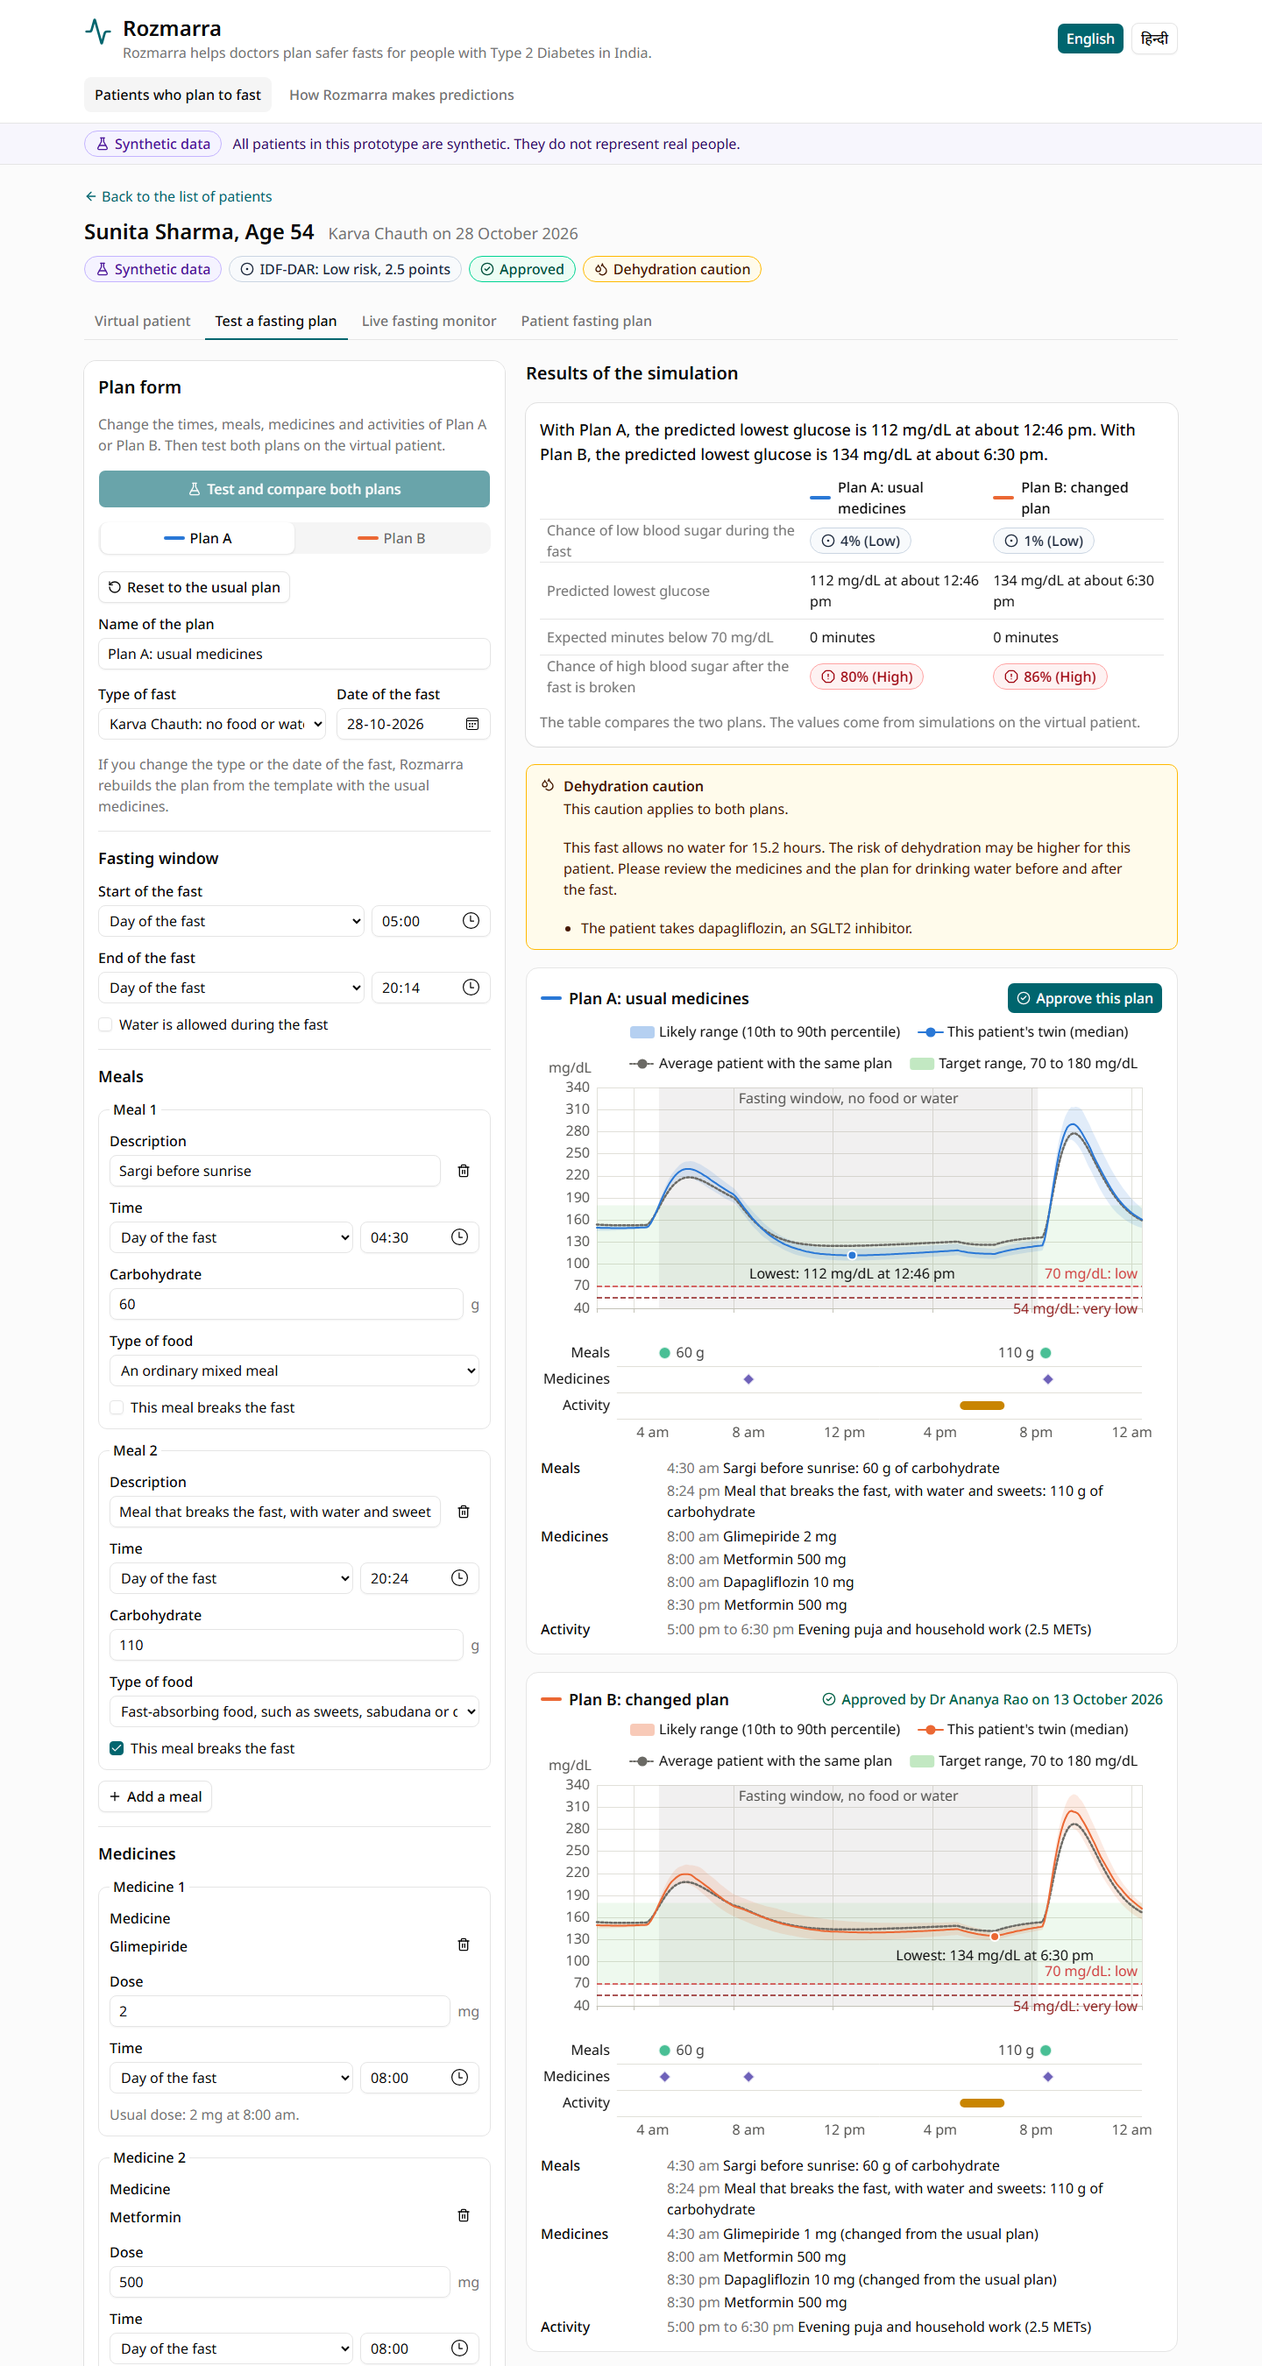
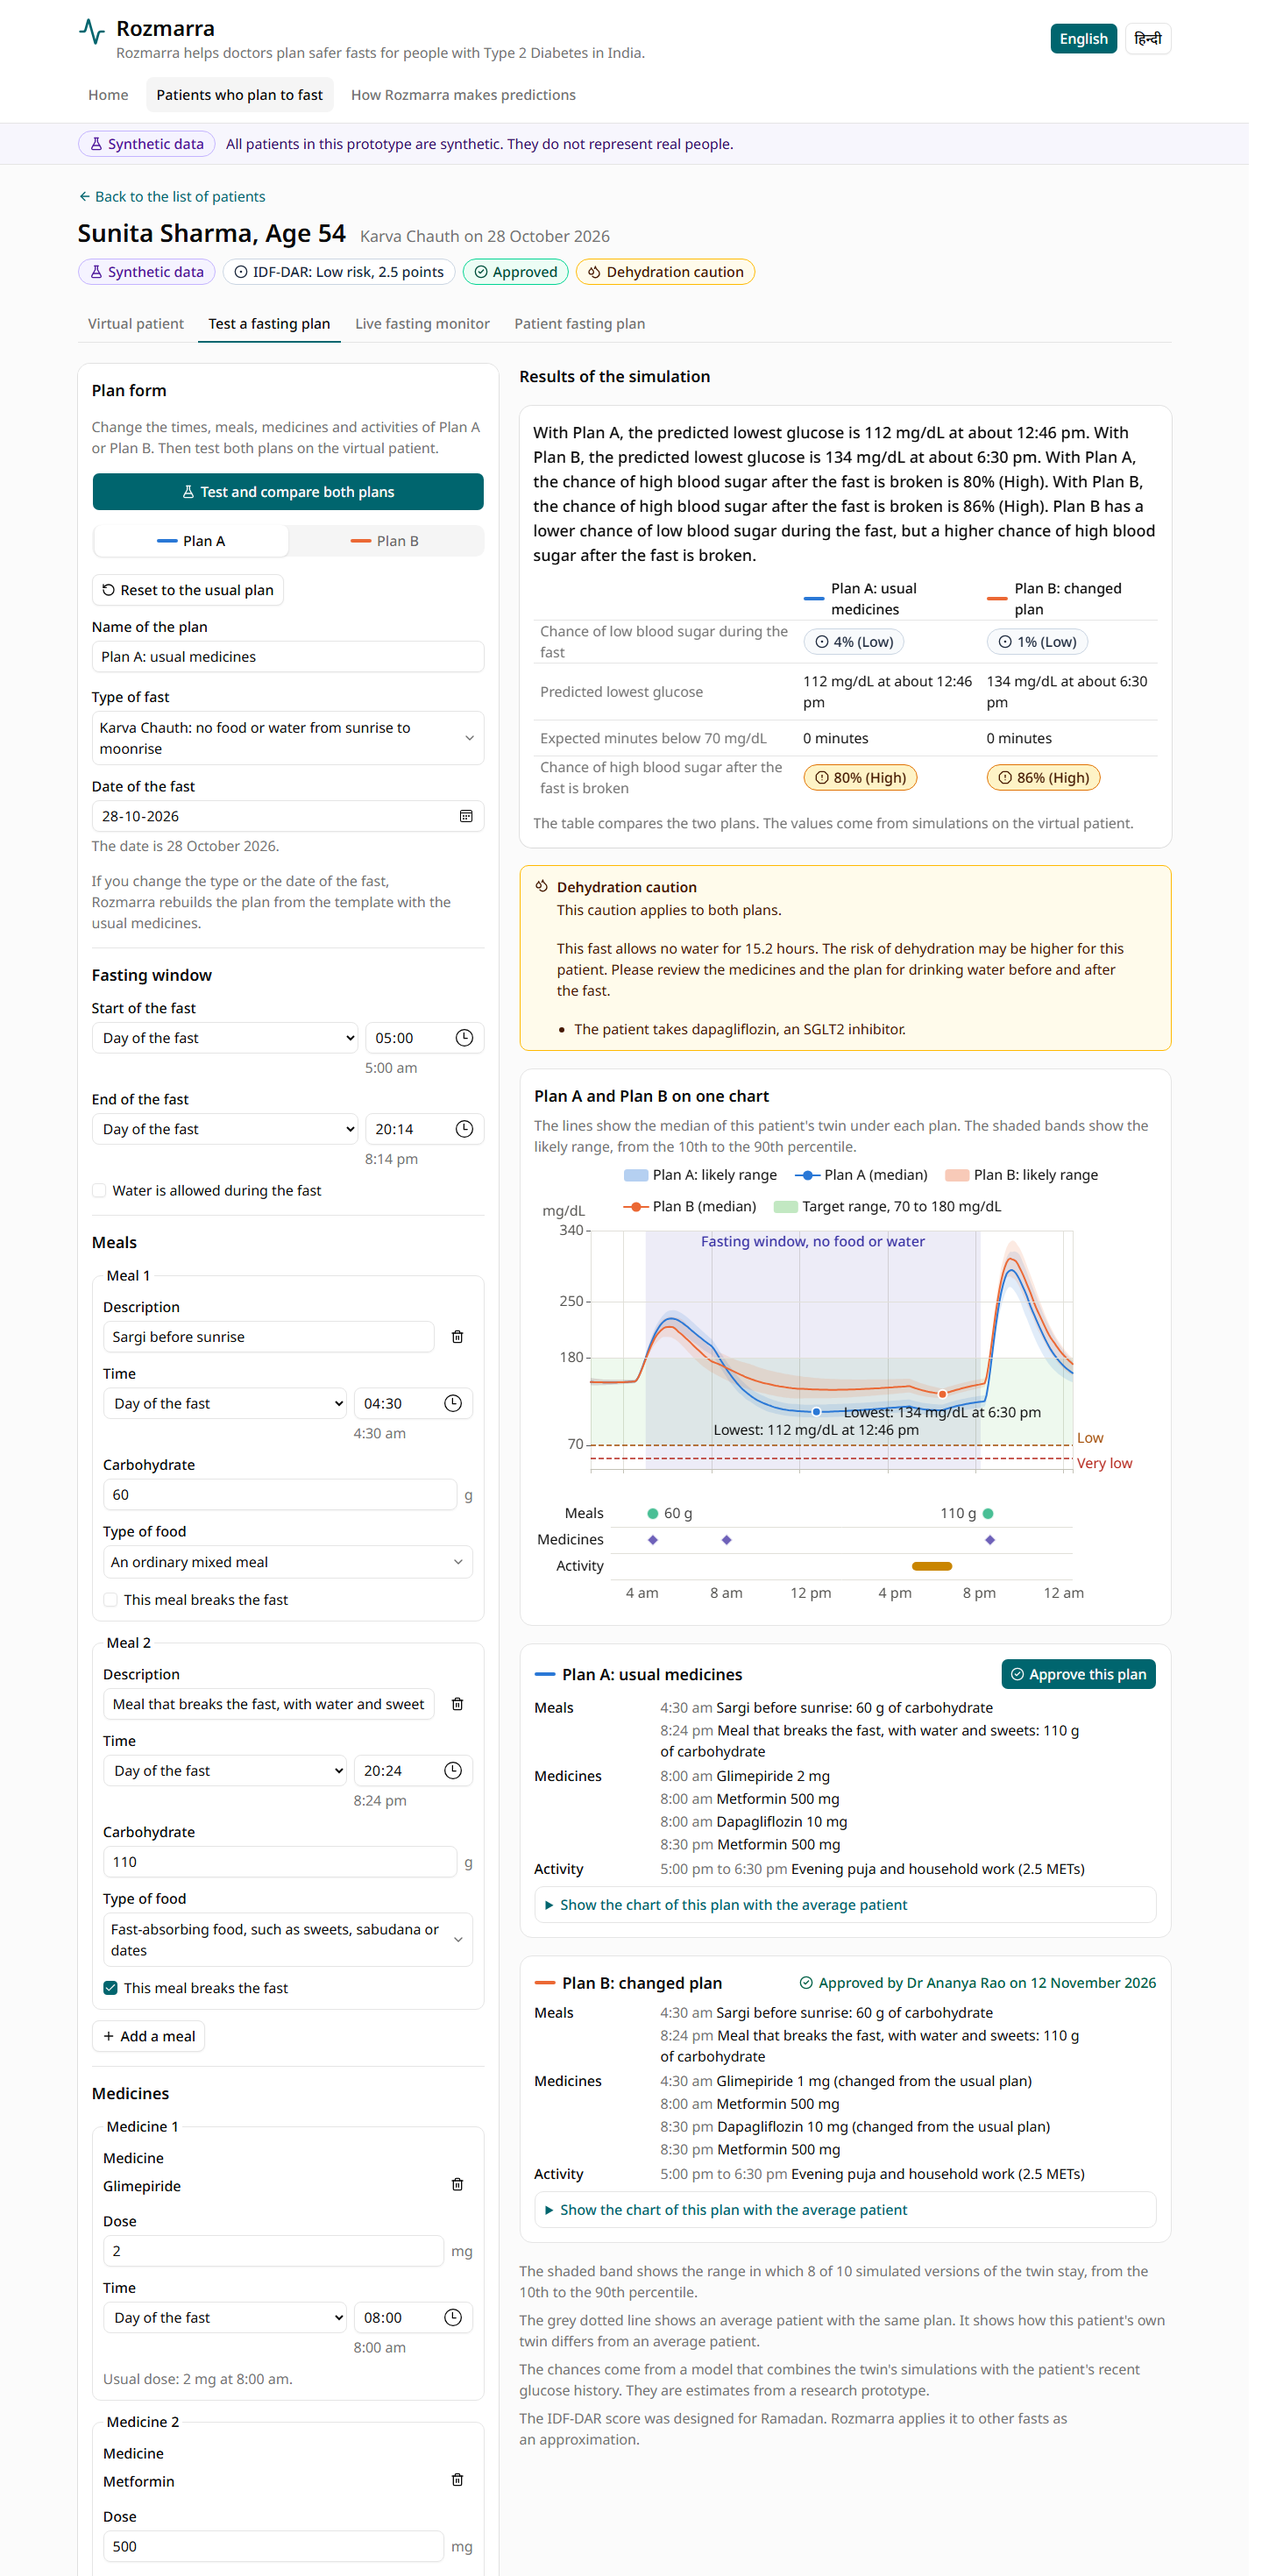
Retake the README screenshots for the new design and add the home page

diff --git a/README.md b/README.md
@@ -83,9 +83,13 @@ The dashboard can switch between English and Hindi.
 
 The screenshots show the synthetic demo patients. They do not represent real people.
 
+**Home page.** The home page explains what Rozmarra does, shows the order in which a doctor uses the screens and lists the fasts that Rozmarra knows.
+
+![The home page shows the title "Test a fasting plan on a virtual patient before the fast begins", an illustration of one fasting day with the fasting window in indigo, the five steps of the doctor's work, the list of fasts and what Rozmarra does not do.](docs/images/screen0_home.png)
+
 **Screen 1. Patients who plan to fast.** The list sorts the four demo patients by the predicted chance of low blood sugar during the fast.
 
-![Screen 1 shows the list of the four synthetic patients with their fast, IDF-DAR risk, predicted chance of low blood sugar, plan status and cautions.](docs/images/screen1_patients.png)
+![Screen 1 shows the list of the four synthetic patients, sorted by the chance of low blood sugar shown next to each name, with their fast, IDF-DAR risk, plan status and cautions.](docs/images/screen1_patients.png)
 
 **Screen 2. Virtual patient.** The screen shows what the twin knows about Sunita Sharma, Age 54, before Karva Chauth.
 
@@ -93,7 +97,7 @@ The screenshots show the synthetic demo patients. They do not represent real peo
 
 **Screen 3. Test a fasting plan.** The doctor compares Plan A, Sunita's usual medicines, with Plan B, which has a lower glimepiride dose with sargi and dapagliflozin after the fast.
 
-![Screen 3 shows the plan form, the comparison table of Plan A and Plan B, the dehydration caution and the glucose curves of both plans with their uncertainty bands.](docs/images/screen3_simulator.png)
+![Screen 3 shows the plan form, the summary and comparison table of Plan A and Plan B, the dehydration caution, one chart with the glucose curves of both plans and their uncertainty bands, and the meals and medicines of each plan.](docs/images/screen3_simulator.png)
 
 **Screen 4. Live fasting monitor.** The replay of Ramesh Patel's Navratri fast shows the alert at 10:50 am, with the forecast for the next 2 hours and the three main reasons.
 
